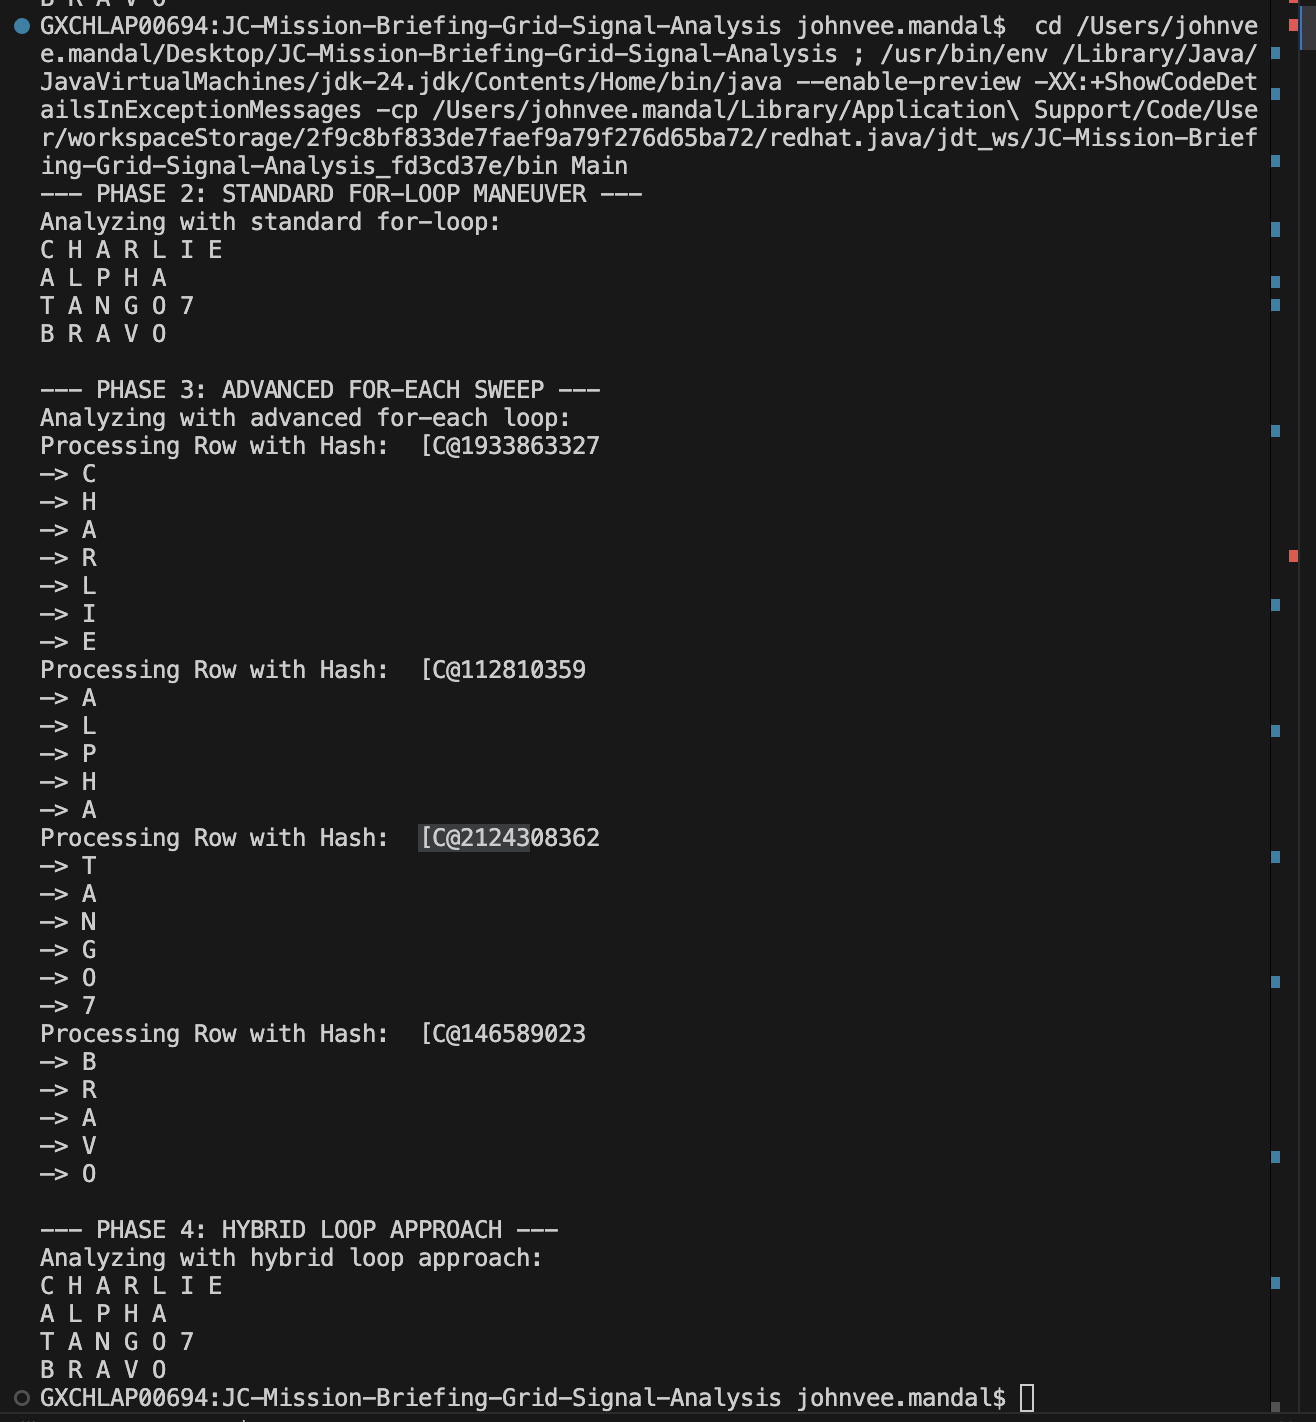
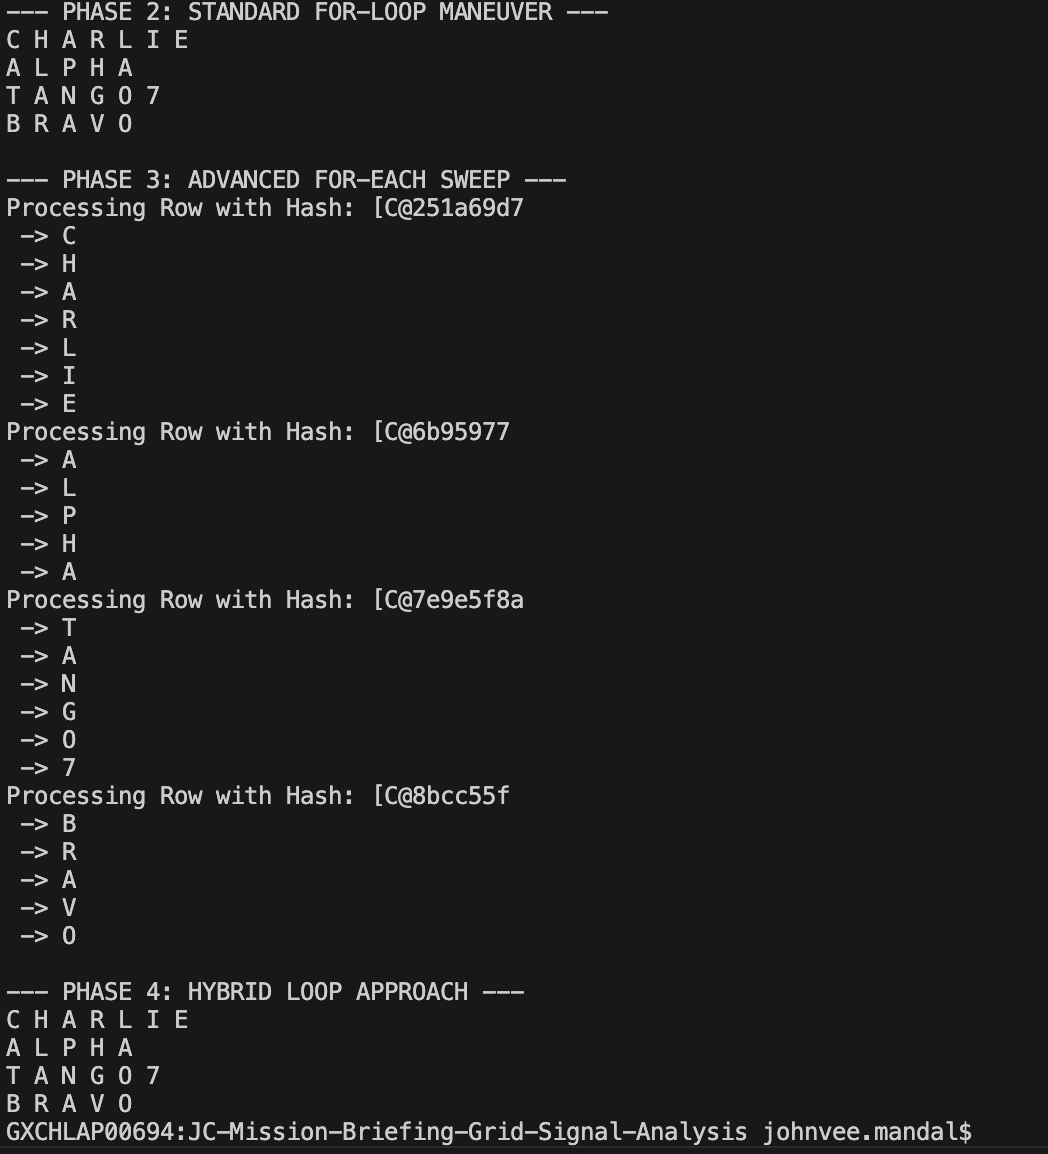
Improved readability and fixed issues

diff --git a/GridSignalAnalyzer.java b/GridSignalAnalyzer.java
@@ -1,42 +1,49 @@
 public class GridSignalAnalyzer {
-   
-        char[][] scrambledGrid = {
-    {'C', 'H', 'A', 'R', 'L', 'I', 'E'},
-    {'A', 'L', 'P', 'H', 'A'},
-    {'T', 'A', 'N', 'G', 'O', '7'},
-    {'B', 'R', 'A', 'V', 'O'}
-};
 
-void analyzeWithForLoop() {
-        System.out.println("Analyzing with standard for-loop:");
+    char[][] scrambledGrid = {
+        {'C', 'H', 'A', 'R', 'L', 'I', 'E'},
+        {'A', 'L', 'P', 'H', 'A'},
+        {'T', 'A', 'N', 'G', 'O', '7'},
+        {'B', 'R', 'A', 'V', 'O'}
+    };
+
+    void analyzeWithForLoop() {
         for (int i = 0; i < scrambledGrid.length; i++) {
             for (int j = 0; j < scrambledGrid[i].length; j++) {
                 System.out.print(scrambledGrid[i][j] + " ");
             }
             System.out.println();
         }
-
-
     }
 
     void analyzeWithForEachLoop() {
-        System.out.println("Analyzing with advanced for-each loop:");
         for (char[] row : scrambledGrid) {
-            System.out.println("Processing Row with Hash:  [C@" + row.hashCode());
+            System.out.println("Processing Row with Hash: " + row);
             for (char cell : row) {
-                System.out.println("—> "+  cell + " ");
+                System.out.println(" -> " + cell);
             }
-            
         }
     }
-void analyzeWithHybridLoop() {
-        System.out.println("Analyzing with hybrid loop approach:");
-        for (int i = 0; i < scrambledGrid.length; i++) {
-            for (char cell : scrambledGrid[i]) {
-                System.out.print(cell + " ");
+
+    void analyzeWithHybridLoop() {
+        for (char[] row : scrambledGrid) { 
+            for (int i = 0; i < row.length; i++) { 
+                System.out.print(row[i] + " ");
             }
             System.out.println();
         }
     }
 
+    public static void main(String[] args) {
+        GridSignalAnalyzer analyzer = new GridSignalAnalyzer();
+
+        System.out.println("--- PHASE 2: STANDARD FOR-LOOP MANEUVER ---");
+        analyzer.analyzeWithForLoop();
+
+        System.out.println("\n--- PHASE 3: ADVANCED FOR-EACH SWEEP ---");
+        analyzer.analyzeWithForEachLoop();
+
+        System.out.println("\n--- PHASE 4: HYBRID LOOP APPROACH ---");
+        analyzer.analyzeWithHybridLoop();
+    }
 }
